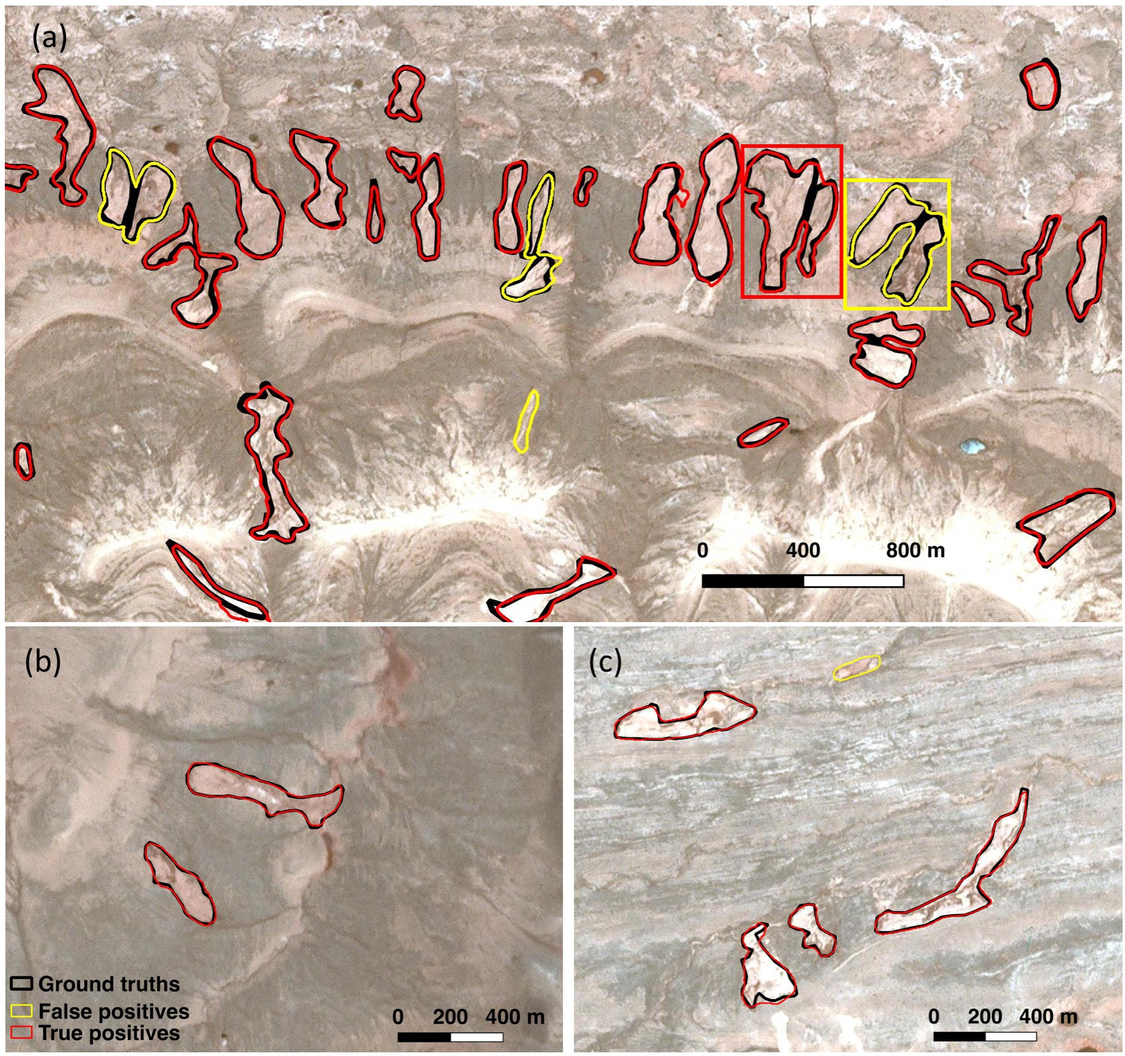
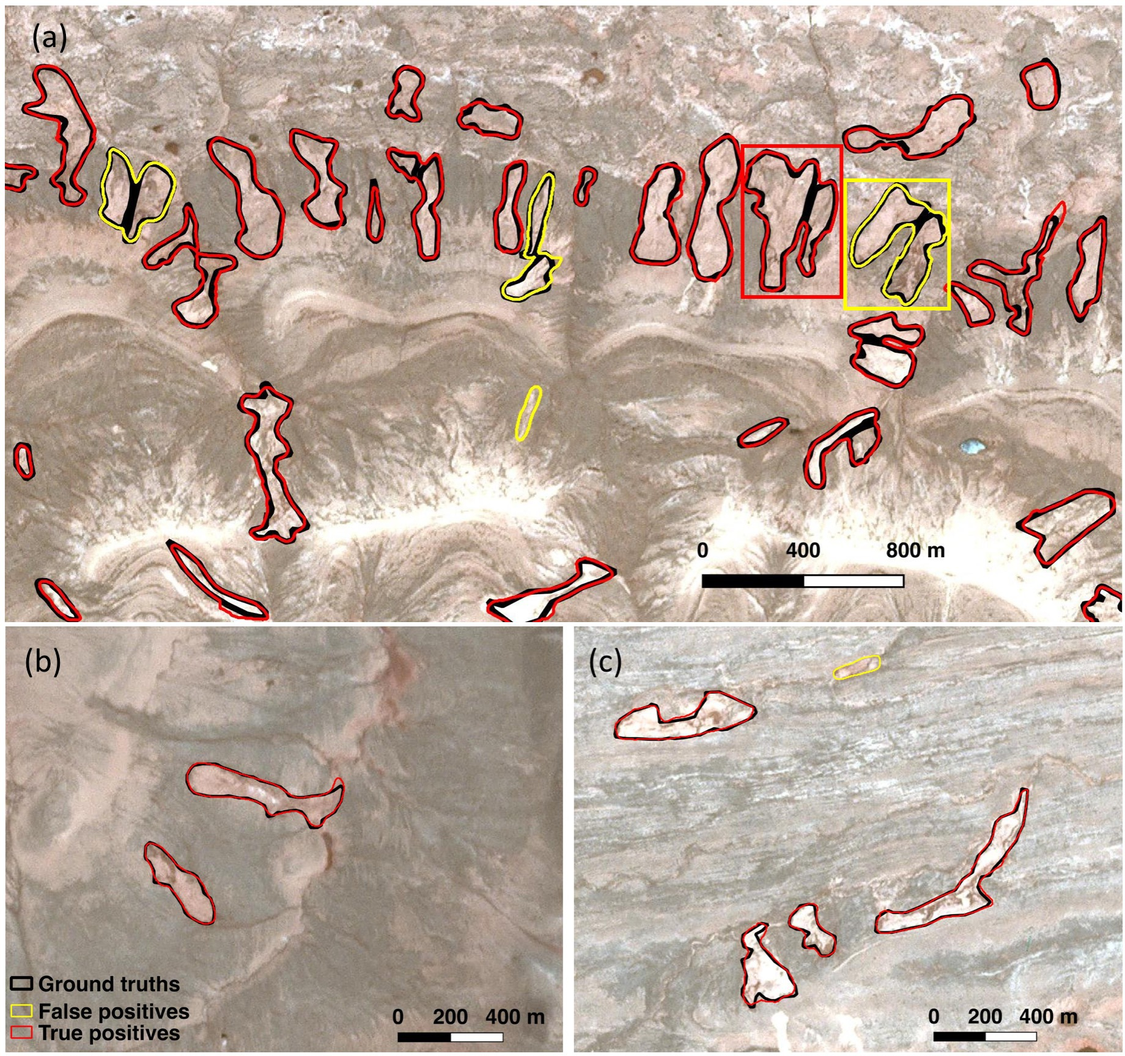
update figures

diff --git a/mapping_RTS_dl_beiluhe.tex b/mapping_RTS_dl_beiluhe.tex
@@ -277,7 +277,7 @@ The performance of each experiment, represented by precision-recall curves, vari
 % h or ht: place the table here 
 \begin{table}
 \scriptsize
-\caption{Selected experiments of data augmentations: without data augmentation (\#0), the top five (\#16, 4, 2, 13, and 6) and bottom five (\#24, 9, 23, 25, and 20) based on AP}
+\caption{Selected experiments of data augmentations: without data augmentation (\#0), the top five (\#22, 1, 30, 16, and 26) and bottom five (\#31, 5, 9, 29, and 14) based on AP}
 \label{table_acc_imgaug}
 %\centering
 %% \tablesize{} %% You can specify the fontsize here, e.g. \tablesize{\footnotesize}. If commented out \small will be used.
@@ -287,56 +287,58 @@ The performance of each experiment, represented by precision-recall curves, vari
 \textbf{\#}&\textbf{Augmentation Methods}&\textbf{AP}&\textbf{Neg}&\textbf{Pos}&\textbf{IOU}&\textbf{TP}&\textbf{FP}&\textbf{FN}&\textbf{Pre}&\textbf{Rec}&\textbf{F1} \\
 \midrule 
 
-\multirow{3}{*}{0} &  \multirow{3}{*}{} & \multirow{3}{*}{0.516} & \multirow{3}{*}{1268} & \multirow{3}{*}{343} &0.8 & 93	&89	&109&	0.511 &	0.460& 	0.484  \\ [-1ex]
- &  & &  &   & 0.4 & 161&	21	&40	&0.885 &	0.801 &	0.841  \\[-1ex]
- &  & &  &   & 0.0 & 165&	17	&13&	0.907 	&0.927 	&0.917  \\[-1ex]
+\multirow{3}{*}{0} &  \multirow{3}{*}{} & \multirow{3}{*}{0.527} & \multirow{3}{*}{1177} & \multirow{3}{*}{429} &0.8 & 166	&109	&97&	0.604  &	0.631 & 	0.617   \\ [-1ex]
+ &  & &  &   & 0.4 & 233&	42	&27	&0.847  &	0.896   &	0.871   \\[-1ex]
+ &  & &  &   & 0.0 & 234&	41	&2&	0.851  	&0.992  &0.916   \\[-1ex]
 
 \hline 
 \hline
 
-\multirow{3}{*}{16} &  \multirow{3}{*}{F, B, C} & \multirow{3}{*}{0.536 } & \multirow{3}{*}{1268} & \multirow{3}{*}{2401} &0.8 & 130 & 66 & 72 & 0.663  & 0.644  & 0.653 \\ [-1ex]
- &  & &  &   & 0.4 & 172 & 24 & 27 & 0.878  & 0.864  & 0.871 \\ [-1ex]
- &  & &  &   & 0.0 & 175 & 21 & 7 & 0.893  & 0.962  & 0.926 \\ [-1ex]
+\multirow{3}{*}{22} &  \multirow{3}{*}{B, C, S} & \multirow{3}{*}{0.541} & \multirow{3}{*}{1177} & \multirow{3}{*}{3003} &0.8 & 161 & 94 & 102 & 0.631 & 0.612 & 0.622\\[-1ex]
+ &  & &  &   & 0.4 & 228 & 27 & 32 & 0.894 & 0.877 & 0.885\\[-1ex]
+ &  & &  &   & 0.0 & 229 & 26 & 6 & 0.898 & 0.975 & 0.935\\[-1ex]
 \midrule
-\multirow{3}{*}{4} &  \multirow{3}{*}{S} & \multirow{3}{*}{0.531 } & \multirow{3}{*}{1268} & \multirow{3}{*}{1029} &0.8 & 120 & 78 & 82 & 0.606  & 0.594  & 0.600 \\ [-1ex]
- &  & &  &   & 0.4 & 171 & 27 & 29 & 0.864  & 0.855  & 0.859 \\ [-1ex]
- &  & &  &   & 0.0 & 171 & 27 & 4 & 0.864  & 0.977  & 0.917 \\ [-1ex]
+\multirow{3}{*}{1} &  \multirow{3}{*}{F} & \multirow{3}{*}{0.526} & \multirow{3}{*}{1177} & \multirow{3}{*}{1287} &0.8 & 142 & 121 & 121 & 0.540 & 0.540 & 0.540\\[-1ex]
+ &  & &  &   & 0.4 & 222 & 41 & 40 & 0.844 & 0.847 & 0.846\\[-1ex]
+ &  & &  &   & 0.0 & 227 & 36 & 3 & 0.863 & 0.987 & 0.921\\[-1ex]
 \midrule
-\multirow{3}{*}{2} &  \multirow{3}{*}{F, B} & \multirow{3}{*}{0.523 } & \multirow{3}{*}{1268} & \multirow{3}{*}{1715} &0.8 & 121 & 79 & 81 & 0.605  & 0.599  & 0.602 \\ [-1ex]
- &  & &  &   & 0.4 & 169 & 31 & 32 & 0.845  & 0.841  & 0.843 \\ [-1ex]
- &  & &  &   & 0.0 & 173 & 27 & 6 & 0.865  & 0.967  & 0.913 \\ [-1ex]
+\multirow{3}{*}{30} &  \multirow{3}{*}{B, C, S, R} & \multirow{3}{*}{0.525} & \multirow{3}{*}{1177} & \multirow{3}{*}{4290} &0.8 & 138 & 118 & 125 & 0.539 & 0.525 & 0.532\\[-1ex]
+ &  & &  &   & 0.4 & 222 & 34 & 39 & 0.867 & 0.851 & 0.859\\[-1ex]
+ &  & &  &   & 0.0 & 227 & 29 & 6 & 0.887 & 0.974 & 0.928\\[-1ex]
 \midrule
-\multirow{3}{*}{13} &  \multirow{3}{*}{C, S} & \multirow{3}{*}{0.521 } & \multirow{3}{*}{1268} & \multirow{3}{*}{1715} &0.8 & 131 & 76 & 71 & 0.633  & 0.649  & 0.641 \\ [-1ex]
- &  & &  &   & 0.4 & 175 & 32 & 25 & 0.845  & 0.875  & 0.860 \\ [-1ex]
- &  & &  &   & 0.0 & 176 & 31 & 5 & 0.850  & 0.972  & 0.907 \\ [-1ex]
+\multirow{3}{*}{16} &  \multirow{3}{*}{F, B, C} & \multirow{3}{*}{0.520} & \multirow{3}{*}{1177} & \multirow{3}{*}{3003} &0.8 & 167 & 104 & 96 & 0.616 & 0.635 & 0.626\\[-1ex]
+ &  & &  &   & 0.4 & 228 & 43 & 32 & 0.841 & 0.877 & 0.859\\[-1ex]
+ &  & &  &   & 0.0 & 229 & 42 & 3 & 0.845 & 0.987 & 0.911\\[-1ex]
 \midrule
-\multirow{3}{*}{6} &  \multirow{3}{*}{F, R} & \multirow{3}{*}{0.519 } & \multirow{3}{*}{1268} & \multirow{3}{*}{2058} &0.8 & 108 & 90 & 94 & 0.546  & 0.535  & 0.540 \\ [-1ex]
- &  & &  &   & 0.4 & 166 & 32 & 34 & 0.838  & 0.830  & 0.834 \\ [-1ex]
- &  & &  &   & 0.0 & 170 & 28 & 6 & 0.859  & 0.966  & 0.909 \\ [-1ex]
+\multirow{3}{*}{26} &  \multirow{3}{*}{F, B, C, S} & \multirow{3}{*}{0.519} & \multirow{3}{*}{1177} & \multirow{3}{*}{3861} &0.8 & 169 & 101 & 94 & 0.626 & 0.643 & 0.634\\[-1ex]
+ &  & &  &   & 0.4 & 229 & 41 & 32 & 0.848 & 0.877 & 0.863\\[-1ex]
+ &  & &  &   & 0.0 & 229 & 41 & 5 & 0.848 & 0.979 & 0.909\\[-1ex]
+
+\hline 
+\hline
+
+
+\multirow{3}{*}{31} &  \multirow{3}{*}{F, B, C, S, R} & \multirow{3}{*}{0.483} & \multirow{3}{*}{1177} & \multirow{3}{*}{5148} &0.8 & 152 & 135 & 111 & 0.530 & 0.578 & 0.553\\[-1ex]
+ &  & &  &   & 0.4 & 228 & 59 & 30 & 0.794 & 0.884 & 0.837\\[-1ex]
+ &  & &  &   & 0.0 & 228 & 59 & 5 & 0.794 & 0.979 & 0.877\\[-1ex]
+\midrule
+\multirow{3}{*}{5} &  \multirow{3}{*}{R} & \multirow{3}{*}{0.478} & \multirow{3}{*}{1177} & \multirow{3}{*}{1716} &0.8 & 109 & 160 & 154 & 0.405 & 0.414 & 0.410\\[-1ex]
+ &  & &  &   & 0.4 & 217 & 52 & 44 & 0.807 & 0.831 & 0.819\\[-1ex]
+ &  & &  &   & 0.0 & 222 & 47 & 10 & 0.825 & 0.957 & 0.886\\[-1ex]
+\midrule
+\multirow{3}{*}{9} &  \multirow{3}{*}{F, R} & \multirow{3}{*}{0.476} & \multirow{3}{*}{1177} & \multirow{3}{*}{2574} &0.8 & 131 & 153 & 132 & 0.461 & 0.498 & 0.479\\[-1ex]
+ &  & &  &   & 0.4 & 219 & 65 & 43 & 0.771 & 0.836 & 0.802\\[-1ex]
+ &  & &  &   & 0.0 & 221 & 63 & 5 & 0.778 & 0.978 & 0.867\\[-1ex]
+\midrule
+\multirow{3}{*}{29} &  \multirow{3}{*}{F, C, S, R} & \multirow{3}{*}{0.475} & \multirow{3}{*}{1177} & \multirow{3}{*}{4290} &0.8 & 160 & 142 & 103 & 0.530 & 0.608 & 0.566\\[-1ex]
+ &  & &  &   & 0.4 & 226 & 76 & 36 & 0.748 & 0.863 & 0.801\\[-1ex]
+ &  & &  &   & 0.0 & 228 & 74 & 2 & 0.755 & 0.991 & 0.857\\[-1ex]
+\midrule
+\multirow{3}{*}{14} &  \multirow{3}{*}{C, R} & \multirow{3}{*}{0.456} & \multirow{3}{*}{1177} & \multirow{3}{*}{2574} &0.8 & 141 & 136 & 122 & 0.509 & 0.536 & 0.522\\[-1ex]
+ &  & &  &   & 0.4 & 218 & 59 & 43 & 0.787 & 0.835 & 0.810\\[-1ex]
+ &  & &  &   & 0.0 & 222 & 55 & 15 & 0.801 & 0.937 & 0.864\\[-1ex]
+
  
-\hline
-\hline
-
-\multirow{3}{*}{24} &  \multirow{3}{*}{B, S, R} & \multirow{3}{*}{0.494 } & \multirow{3}{*}{1268} & \multirow{3}{*}{2744} &0.8 & 111 & 77 & 91 & 0.590  & 0.550  & 0.569 \\ [-1ex]
- &  & &  &   & 0.4 & 161 & 27 & 39 & 0.856  & 0.805  & 0.830 \\ [-1ex]
- &  & &  &   & 0.0 & 164 & 24 & 15 & 0.872  & 0.916  & 0.894 \\[-1ex]
-\midrule
-\multirow{3}{*}{9} &  \multirow{3}{*}{B} & \multirow{3}{*}{0.493 } & \multirow{3}{*}{1268} & \multirow{3}{*}{1029} &0.8 & 107 & 76 & 95 & 0.585  & 0.530  & 0.556 \\[-1ex]
- &  & &  &   & 0.4 & 157 & 26 & 43 & 0.858  & 0.785  & 0.820 \\[-1ex]
- &  & &  &   & 0.0 & 161 & 22 & 17 & 0.880  & 0.905  & 0.892 \\[-1ex]
-\midrule
-\multirow{3}{*}{23} &  \multirow{3}{*}{B, C, R} & \multirow{3}{*}{0.490 } & \multirow{3}{*}{1268} & \multirow{3}{*}{2744} &0.8 & 112 & 76 & 90 & 0.596  & 0.555  & 0.574 \\[-1ex]
- &  & &  &   & 0.4 & 163 & 25 & 37 & 0.867  & 0.815  & 0.840 \\[-1ex]
- &  & &  &   & 0.0 & 165 & 23 & 17 & 0.878  & 0.907  & 0.892 \\[-1ex]
-\midrule
-\multirow{3}{*}{5} &  \multirow{3}{*}{R} & \multirow{3}{*}{0.485 } & \multirow{3}{*}{1268} & \multirow{3}{*}{1372} &0.8 & 84 & 88 & 118 & 0.488  & 0.416  & 0.449 \\[-1ex]
- &  & &  &   & 0.4 & 144 & 28 & 57 & 0.837  & 0.716  & 0.772 \\[-1ex]
- &  & &  &   & 0.0 & 152 & 20 & 21 & 0.884  & 0.879  & 0.881 \\[-1ex]
-\midrule
-\multirow{3}{*}{20} &  \multirow{3}{*}{F, C, R} & \multirow{3}{*}{0.480 } & \multirow{3}{*}{1268} & \multirow{3}{*}{2744} &0.8 & 95 & 80 & 107 & 0.543  & 0.470  & 0.504 \\[-1ex]
- &  & &  &   & 0.4 & 153 & 22 & 46 & 0.874  & 0.769  & 0.818 \\[-1ex]
- &  & &  &   & 0.0 & 155 & 20 & 22 & 0.886  & 0.876  & 0.881 \\[-1ex]
-
 \bottomrule
 \end{tabular}
 %\vspace{1ex}
@@ -353,8 +355,8 @@ The performance of each experiment, represented by precision-recall curves, vari
 
 \begin{figure}
 	\centering
-	\includegraphics[width=8cm]{figures/IoU_imgAug16_label_trim.jpg}
-	\caption{IOU histogram of the mapped polygons in experiment \#16.}
+	\includegraphics[width=8cm]{figures/IoU_imgAug22_label_trim.jpg}
+	\caption{IOU histogram of the mapped polygons in experiment \#22.}
 	\label{fig_iou_hist_exp16}
 \end{figure}
 
@@ -411,25 +413,25 @@ When the IOU threshold is 0.8, there is a difference of F1 scores between experi
 \multirow{2}{*}{\textbf{IOU}}&\multirow{2}{*}{\textbf{Methods}}& \multicolumn{3}{c}{ \textbf{F1 score}} \\
  & &\textbf{min}&\textbf{max}&\textbf{mean}\\
 \midrule
-\multirow{5}{*}{0.8} &   F & 0.504 & 0.653 & 0.581 \\
-  & B & 0.512 & 0.653 & 0.591\\
- & C & 0.504 & 0.653 & 0.597\\
- & S & 0.547 & 0.641 & 0.590\\
-& R & 0.449 & 0.606 & 0.555 \\
+\multirow{5}{*}{0.8} & F &     0.479 & 0.634 & 0.575 \\
+&      B & 0.507 & 0.634 & 0.572 \\
+&      C & 0.522 & 0.634 & 0.582 \\
+&      S & 0.447 & 0.634 & 0.571 \\
+&      R & 0.410 & 0.586 & 0.530 \\
 
 \midrule
-\multirow{5}{*}{0.4} &  F & 0.818 & 0.871 & 0.842 \\
- &  B & 0.805 & 0.871 & 0.842\\
- & C & 0.818 & 0.871 & 0.849\\
- & S & 0.830 & 0.861 & 0.845\\
-& R & 0.772 & 0.861 & 0.834\\
+\multirow{5}{*}{0.4}&      F & 0.801 & 0.863 & 0.841 \\
+&      B & 0.826 & 0.885 & 0.847 \\
+&      C & 0.801 & 0.885 & 0.849 \\
+&      S & 0.801 & 0.885 & 0.844 \\
+&      R & 0.801 & 0.859 & 0.833 \\
 
 \midrule
-\multirow{5}{*}{0.0} & F & 0.881 & 0.926 & 0.901 \\
-  &B & 0.887 & 0.926 & 0.902\\
-  &C & 0.881 & 0.926 & 0.904\\
- &S & 0.887 & 0.917 & 0.901\\
-&R & 0.881 & 0.914 & 0.897\\
+\multirow{5}{*}{0.0} &     F & 0.857 & 0.921 & 0.895 \\
+&      B & 0.877 & 0.935 & 0.902 \\
+&      C & 0.857 & 0.935 & 0.900 \\
+&      S & 0.857 & 0.935 & 0.898 \\
+&      R & 0.857 & 0.928 & 0.890 \\
 
 %F: flipping, B: blurring, C:cropping, S:scaling, R: rotating
 
@@ -456,15 +458,15 @@ Table \ref{table_acc_otherbands} lists the accuracies of two experiments, which 
 \textbf{\#}&\textbf{Bands}&\textbf{AP}&\textbf{IOU}&\textbf{TP}&\textbf{FP}&\textbf{FN}&\textbf{Pre}&\textbf{Rec}&\textbf{F1}\\
 \midrule
 
-\multirow{3}{*}{32} &  \multirow{3}{3cm}{Blue, NDVI, NDWI} & \multirow{3}{*}{0.514}  &0.8&129&76&73&0.629 &0.639 &0.634   \\
- &  &  &0.4&175&30&25&0.854 &0.875 &0.864  \\
- &  &  &0.0&177&28&6&0.863 &0.967 &0.912   \\
+\multirow{3}{*}{32} &  \multirow{3}{3cm}{Blue, NDVI, NDWI} & \multirow{3}{*}{0.493}  &0.8&162   & 103   & 101   & 0.611  & 0.616  & 0.614   \\
+ &  &  &0.4&221   & 44    & 40    & 0.834  & 0.847  & 0.840 \\
+ &  &  &0.0&225   & 40    & 14    & 0.849  & 0.941  & 0.893   \\
  
 \midrule
 
-\multirow{3}{*}{33} &  \multirow{3}{3cm}{1--3 bands after PCA} & \multirow{3}{*}{0.472} &0.8&109&52&93&0.677 &0.540 &0.601  \\
- &  &  &0.4&146&15&53&0.907 &0.734 &0.811  \\
- &  & &0.0&147&14&32&0.913 &0.821 &0.865  \\
+\multirow{3}{*}{33} &  \multirow{3}{3cm}{1--3 bands after PCA} & \multirow{3}{*}{0.474} &0.8& 158   & 96    & 105   & 0.622  & 0.601  & 0.611  \\
+ &  &  &0.4& 209   & 45    & 52    & 0.823  & 0.801  & 0.812  \\
+ &  & &0.0& 217   & 37    & 23    & 0.854  & 0.904  & 0.879  \\
 
 \bottomrule
 \end{tabular}
@@ -500,7 +502,7 @@ The uncertainty of the training polygons, some of which are derived from ground 
 \begin{figure}
 	\centering
 	\includegraphics[width=14cm]{figures/geometric_var_mapped_trim.jpg}
-	\caption{Geometric statistics of the RTSs based on mapped RTSs of experiment \#16 in Table \ref{table_acc_imgaug}. One RTS whose area is 34.6 ha not shown in (a), and two RTSs, whose perimeters are 6924 meters and 8226 meters, respectively, are not shown in (b) because they are out of range. }
+	\caption{Geometric statistics of the RTSs based on mapped RTSs of experiment \#22 in Table \ref{table_acc_imgaug}. One RTS whose area is \replaced{35.2}{34.6} ha not shown in (a), and two RTSs, whose perimeters are \replaced{6972}{6924} meters and \replaced{8910}{8226} meters, respectively, are not shown in (b) because they are out of range. }
 	\label{fig_geometric_statistics}
 \end{figure}
 
@@ -517,7 +519,7 @@ The geometric characteristics of the mapped RTSs are similar to those \replaced{
 \begin{figure}
 	\centering
 	\includegraphics[width=13cm]{figures/terrain_var_fig_mapped_trim.jpg}
-	\caption{Statistics of RTS terrain factors based on automatic mapping results  (\#16 in Table \ref{table_acc_imgaug}). Landscape refers to the entire study area.}
+	\caption{Statistics of RTS terrain factors based on automatic mapping results  (\#22 in Table \ref{table_acc_imgaug}). Landscape refers to the entire study area.}
 	\label{fig_terrain_factors}
 \end{figure}
 
